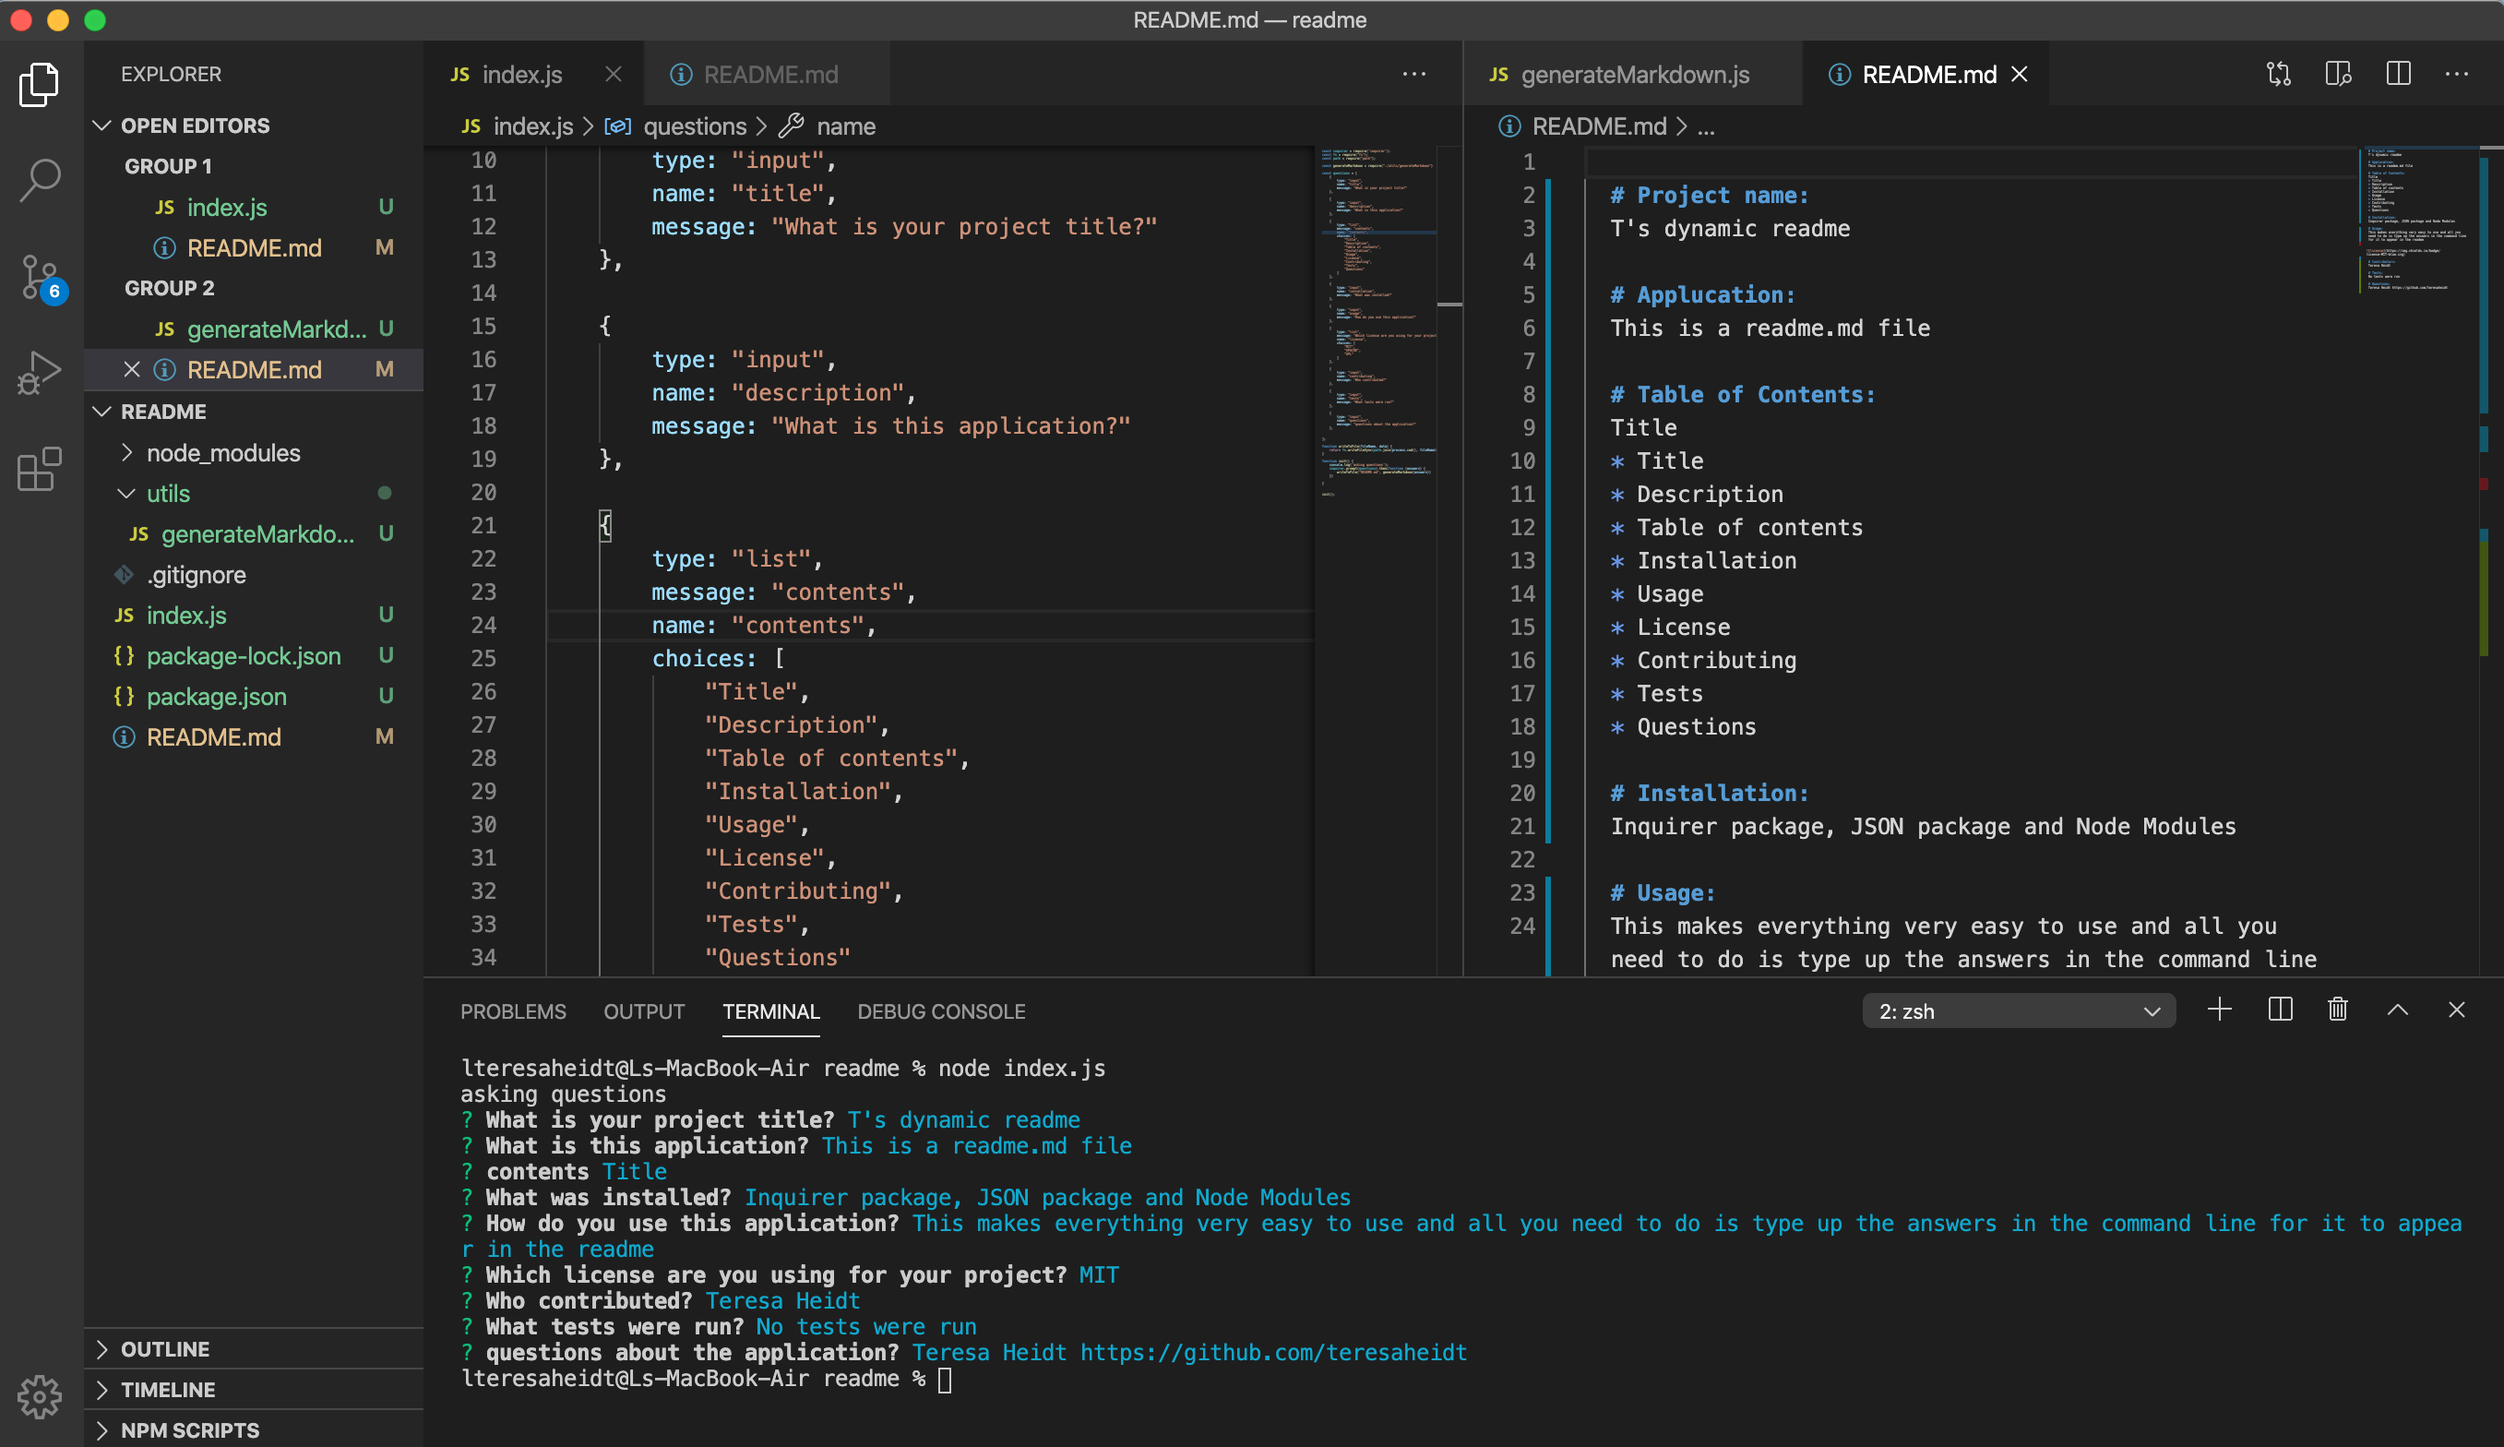
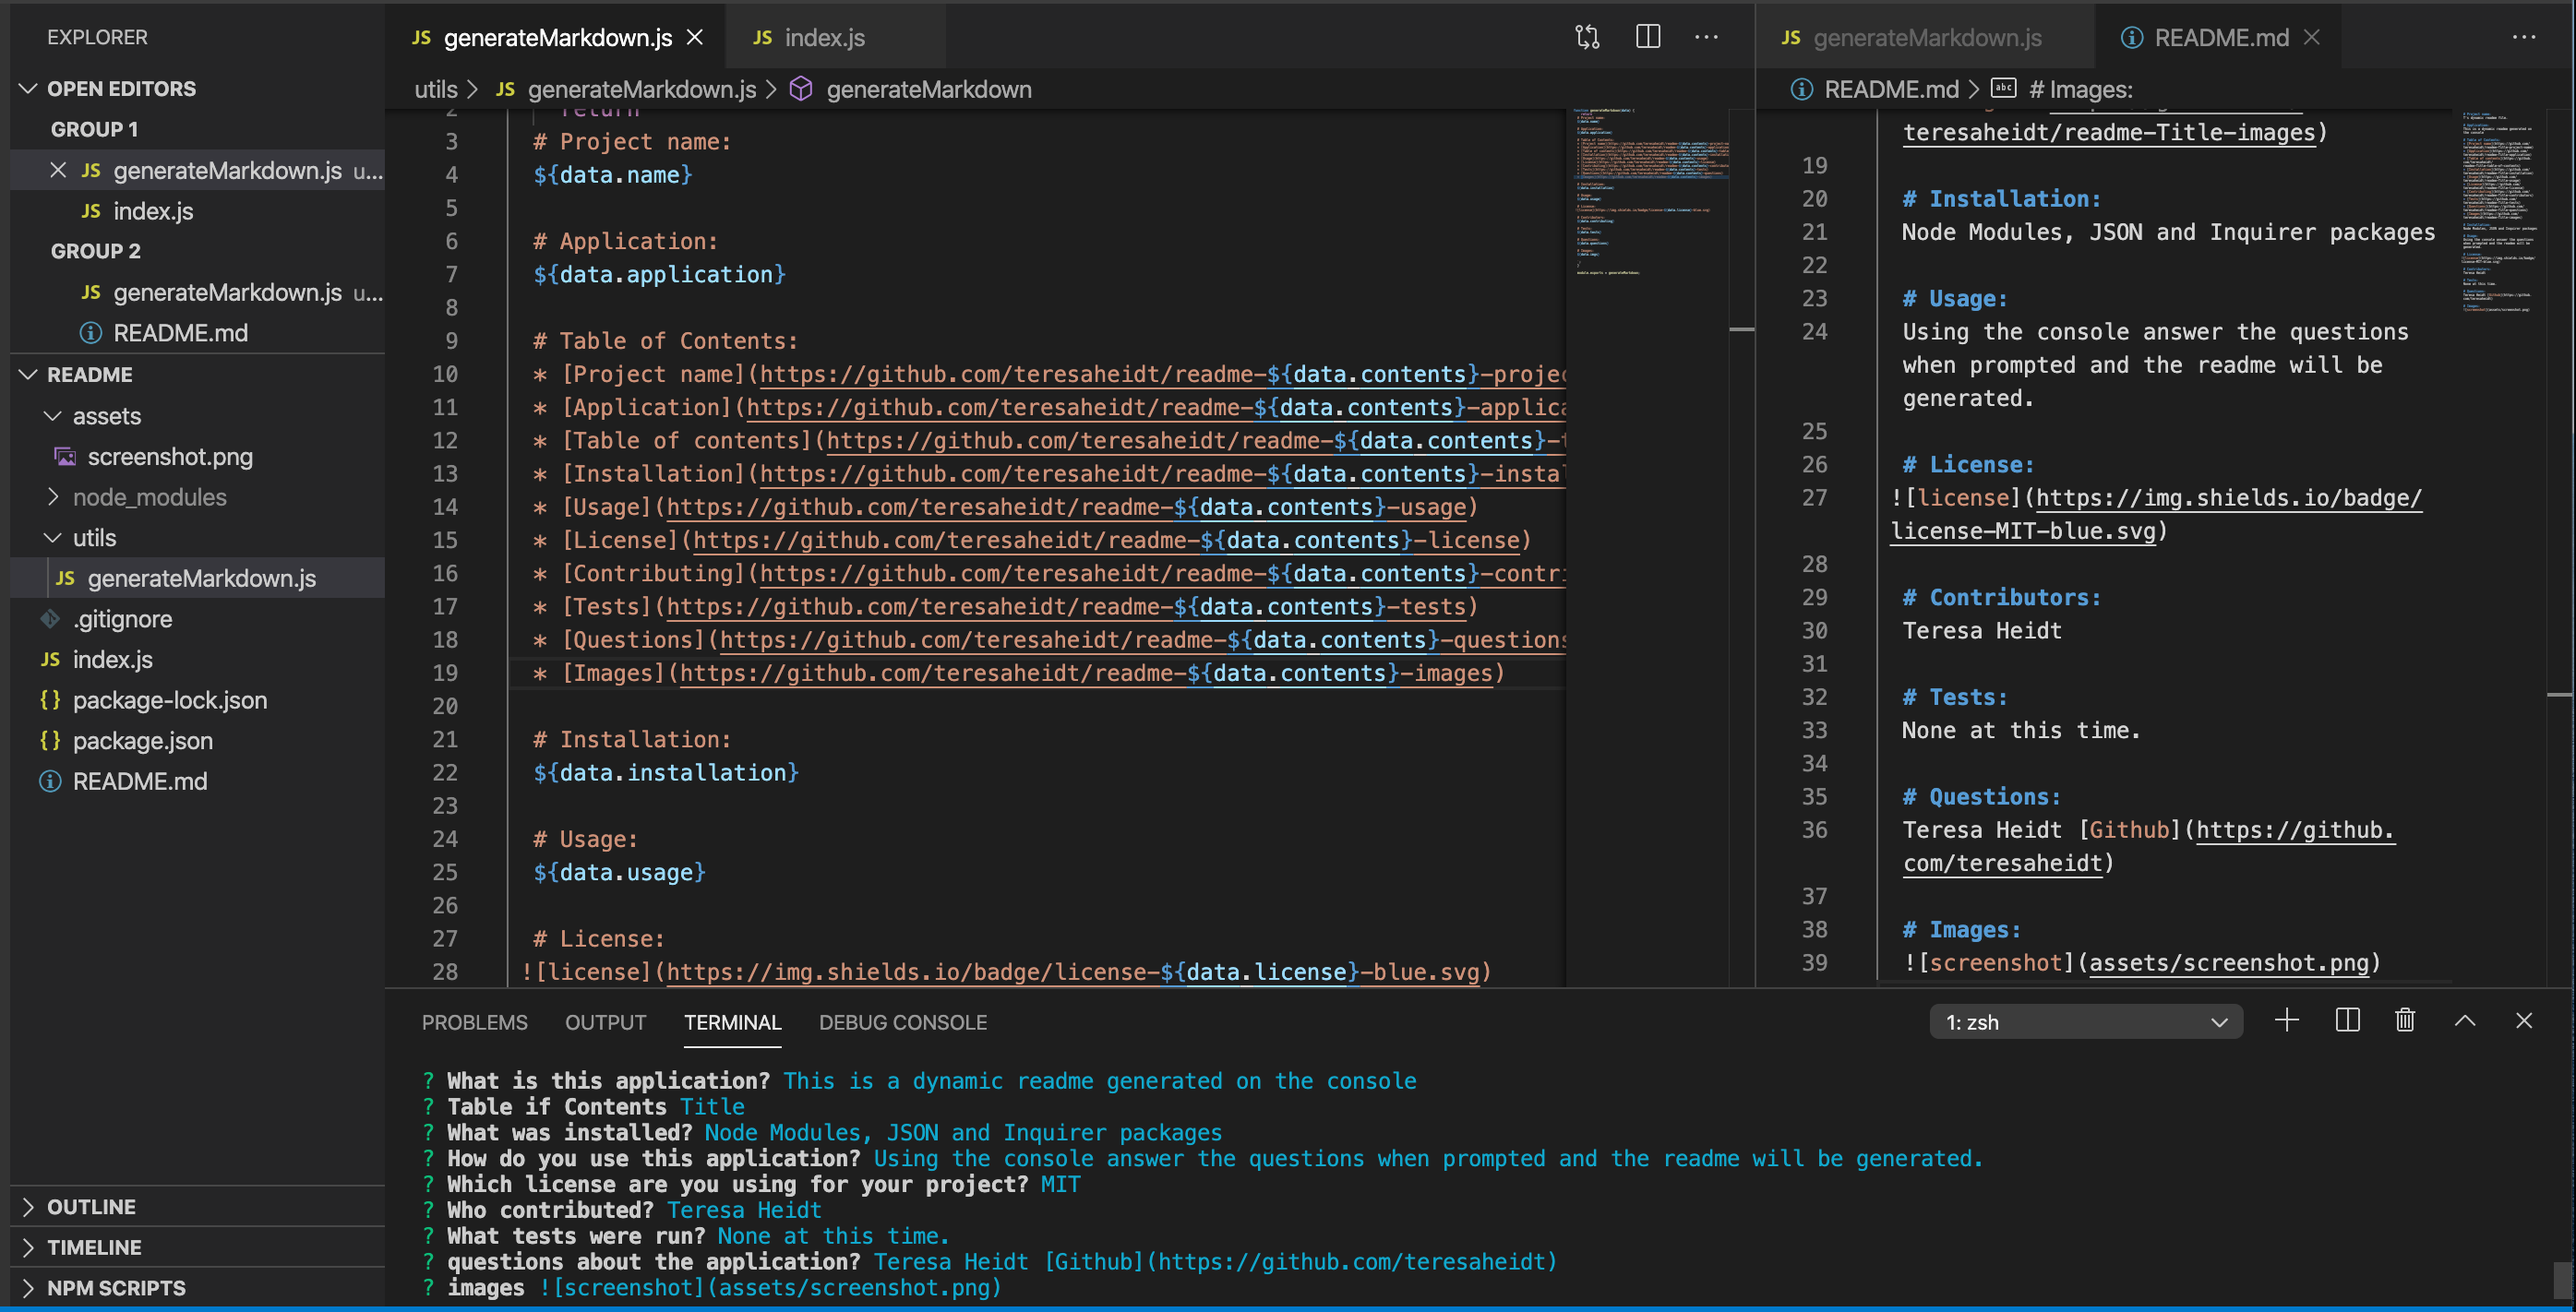
new image added

diff --git a/README.md b/README.md
@@ -3,7 +3,7 @@
   T's dynamic readme file.
 
   # Application:
-  This is a dynamic readme generated on the console
+  This is an application that runs in the command line.
 
   # Table of Contents:
   * [Project name](https://github.com/teresaheidt/readme-Title-project-name)
@@ -18,10 +18,10 @@
   * [Images](https://github.com/teresaheidt/readme-Title-images)
 
   # Installation:
-  Node Modules, JSON and Inquirer packages
+  Node Modules, JSON and Inquirer packages.
 
   # Usage:
-  Using the console answer the questions when prompted and the readme will be generated.
+  In the command line answer the questions when prompted and the readme will be generated.
 
   # License:
  ![license](https://img.shields.io/badge/license-MIT-blue.svg)
@@ -33,7 +33,7 @@
   None at this time.
 
   # Questions:
-  Teresa Heidt [Github](https://github.com/teresaheidt)
+  Contact Teresa Heidt: [Github](https://github.com/teresaheidt)
 
   # Images:
   ![screenshot](assets/screenshot.png)
